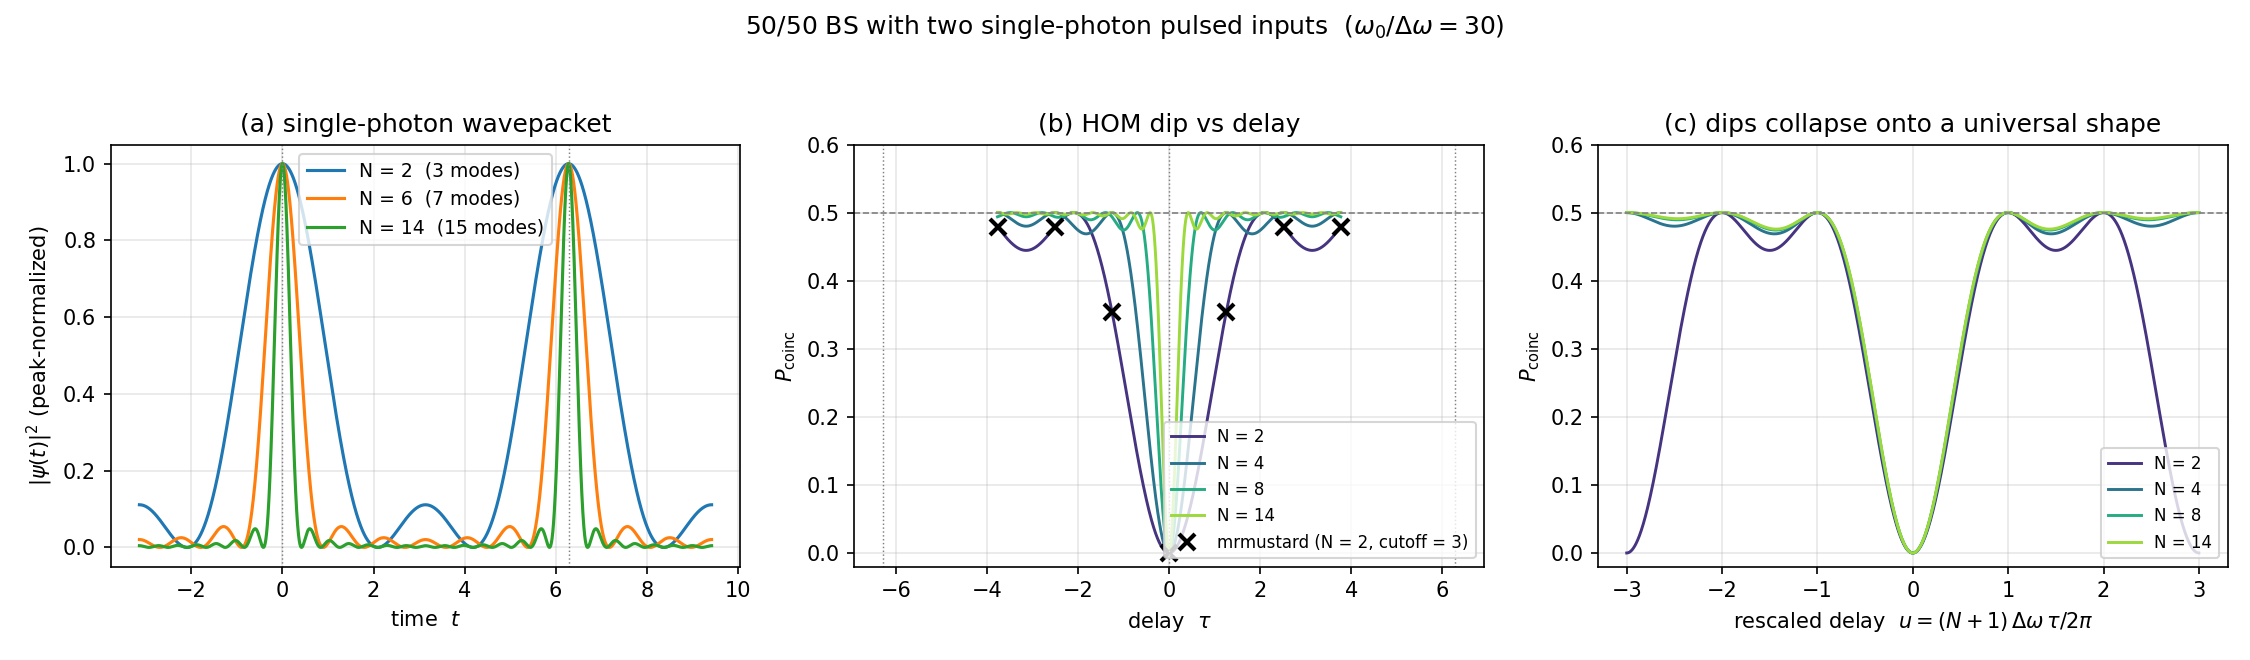
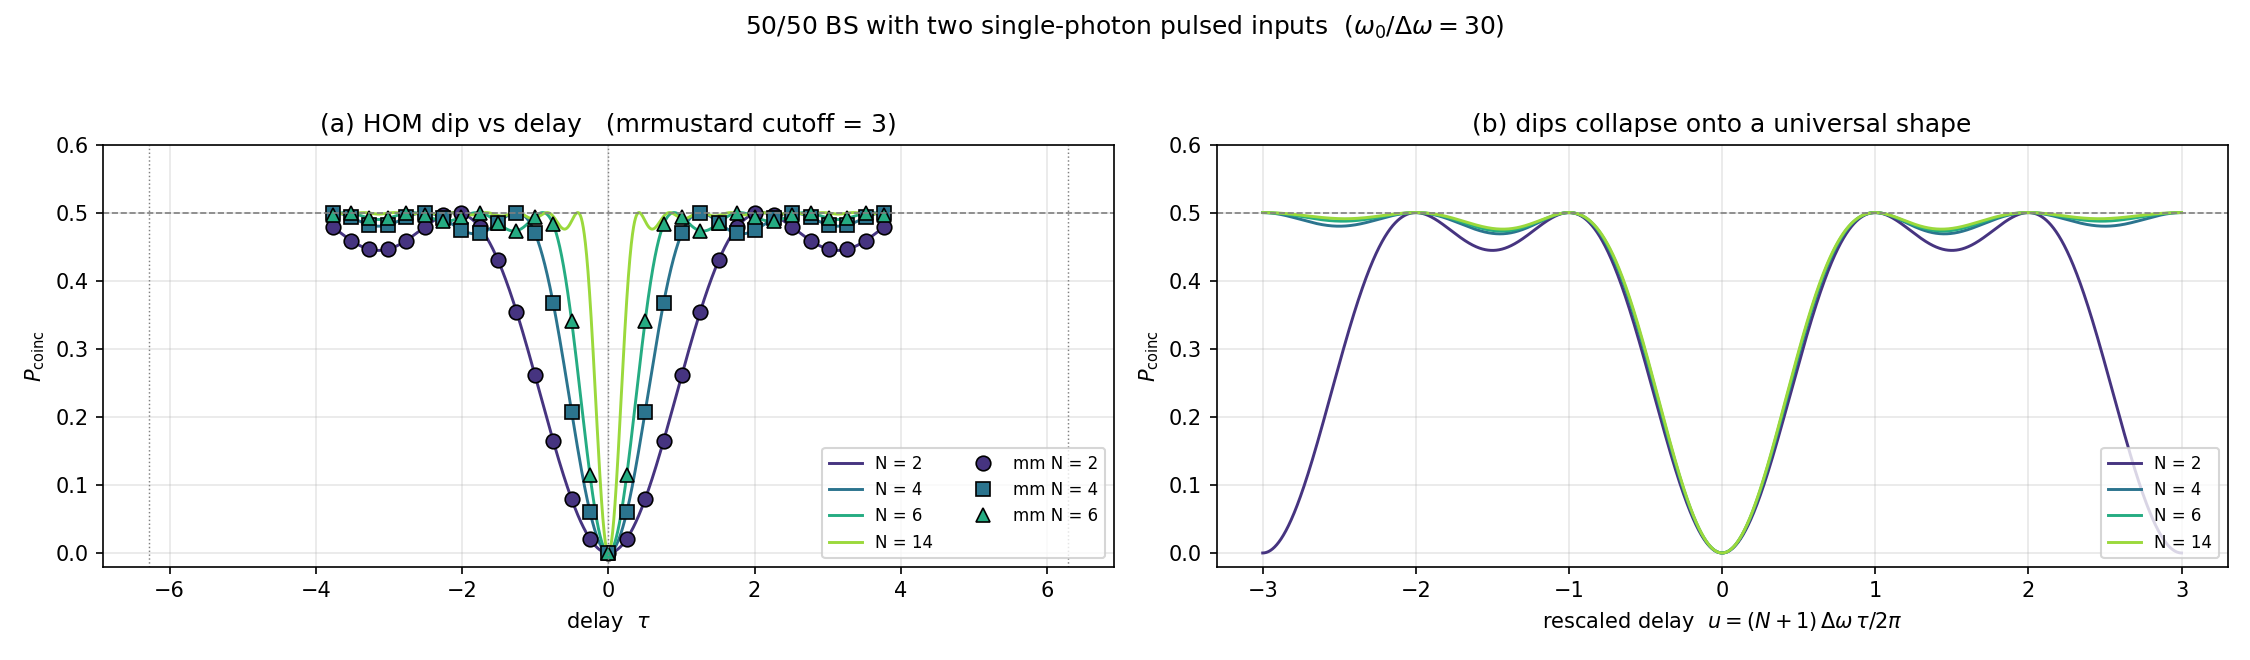
HOM dip simulation finished

diff --git a/coincidence_number_states.py b/coincidence_number_states.py
@@ -130,56 +130,54 @@ for tau in [0.0, T_CAR / 2, T_CAR, T_REP / 16, T_REP / 8, T_REP / 4, T_REP / 2, 
     print(f"{tau:+12.4f} {P:10.4f}")
 print()
 
-# --- mrmustard cross-check -------------------------------------------
-mm_N, mm_cutoff = 2, 3
-mm_taus = np.linspace(-0.6 * T_REP, 0.6 * T_REP, 7)
-print(f"== mrmustard cross-check (N = {mm_N} → {mm_N+1} modes/beam, Fock cutoff = {mm_cutoff}) ==")
-print(f"{'τ':>12} {'analytic':>12} {'mrmustard':>12} {'Δ':>12}")
-mm_P = np.empty_like(mm_taus)
-for i, tau in enumerate(mm_taus):
-    P_mm = coincidence_mrmustard(tau, mm_N, cutoff=mm_cutoff)
-    P_an = coincidence_analytic(tau, mm_N)
-    mm_P[i] = P_mm
-    print(f"{tau:+12.4f} {P_an:12.6f} {P_mm:12.6f} {P_mm-P_an:+12.2e}")
-print()
+# --- mrmustard cross-check at several N ------------------------------
+mm_cutoff = 3
+mm_N_values = [2, 4, 6]
+mm_taus = np.linspace(-0.6 * T_REP, 0.6 * T_REP, 31)
+mm_results = {}
+
+for mm_N in mm_N_values:
+    print(f"== mrmustard cross-check (N = {mm_N} → {mm_N+1} modes/beam, Fock cutoff = {mm_cutoff}) ==")
+    print(f"{'τ':>12} {'analytic':>12} {'mrmustard':>12} {'Δ':>12}")
+    P_arr = np.empty_like(mm_taus)
+    for i, tau in enumerate(mm_taus):
+        P_mm = coincidence_mrmustard(tau, mm_N, cutoff=mm_cutoff)
+        P_an = coincidence_analytic(tau, mm_N)
+        P_arr[i] = P_mm
+        print(f"{tau:+12.4f} {P_an:12.6f} {P_mm:12.6f} {P_mm-P_an:+12.2e}")
+    mm_results[mm_N] = P_arr
+    print()
 
 # --- plots ------------------------------------------------------------
-fig, axes = plt.subplots(1, 3, figsize=(15, 4.4))
+fig, axes = plt.subplots(1, 2, figsize=(15, 4.4))
 
-# (a) single-photon wavepacket profile (envelope = same Dirichlet kernel)
+
+# (b) HOM dip vs delay for several N, plus mrmustard markers (color-matched)
 ax = axes[0]
-t_grid = np.linspace(-0.5 * T_REP, 1.5 * T_REP, 4000)
-for N in [2, 6, 14]:
-    ax.plot(t_grid, pulse_envelope(t_grid, N), label=f"N = {N}  ({N+1} modes)")
-for k in range(2):
-    ax.axvline(k * T_REP, color="gray", linestyle=":", linewidth=0.7)
-ax.set_xlabel(r"time  $t$")
-ax.set_ylabel(r"$|\psi(t)|^2$ (peak-normalized)")
-ax.set_title("(a) single-photon wavepacket")
-ax.legend(fontsize=9)
-ax.grid(alpha=0.3)
-
-# (b) HOM dip vs delay for several N, plus mrmustard markers
-ax = axes[1]
 tau_grid = np.linspace(-0.6 * T_REP, 0.6 * T_REP, 4001)
-N_curves = [2, 4, 8, 14]
-for N, c in zip(N_curves, plt.cm.viridis(np.linspace(0.15, 0.85, len(N_curves)))):
+N_curves = [2, 4, 6, 14]
+N_to_color = dict(zip(N_curves, plt.cm.viridis(np.linspace(0.15, 0.85, len(N_curves)))))
+for N in N_curves:
     ax.plot(tau_grid, [coincidence_analytic(t, N) for t in tau_grid],
-            color=c, lw=1.4, label=f"N = {N}")
-ax.plot(mm_taus, mm_P, "kx", markersize=8, mew=2,
-        label=f"mrmustard (N = {mm_N}, cutoff = {mm_cutoff})")
+            color=N_to_color[N], lw=1.4, label=f"N = {N}")
+mm_markers = {2: "o", 4: "s", 6: "^"}
+for mm_N in mm_N_values:
+    ax.plot(mm_taus, mm_results[mm_N], mm_markers[mm_N],
+            color=N_to_color[mm_N], markersize=7,
+            markeredgecolor="black", markeredgewidth=0.8,
+            linestyle="none", label=f"mm N = {mm_N}")
 ax.axhline(0.5, color="gray", linestyle="--", linewidth=0.8)
 for k in [-1, 0, 1]:
     ax.axvline(k * T_REP, color="gray", linestyle=":", linewidth=0.7)
 ax.set_xlabel(r"delay  $\tau$")
 ax.set_ylabel(r"$P_\mathrm{coinc}$")
-ax.set_title("(b) HOM dip vs delay")
+ax.set_title(f"(a) HOM dip vs delay   (mrmustard cutoff = {mm_cutoff})")
 ax.set_ylim(-0.02, 0.6)
-ax.legend(fontsize=8, loc="lower right")
+ax.legend(fontsize=8, loc="lower right", ncol=2)
 ax.grid(alpha=0.3)
 
 # (c) rescaled overlay: dips collapse when we scale τ by (N+1)
-ax = axes[2]
+ax = axes[1]
 u_grid = np.linspace(-3.0, 3.0, 4001)
 for N, c in zip(N_curves, plt.cm.viridis(np.linspace(0.15, 0.85, len(N_curves)))):
     # rescale: u = (N+1) Δω τ / (2π)  →  τ = 2π u / ((N+1) Δω)
@@ -189,7 +187,7 @@ for N, c in zip(N_curves, plt.cm.viridis(np.linspace(0.15, 0.85, len(N_curves)))
 ax.axhline(0.5, color="gray", linestyle="--", linewidth=0.8)
 ax.set_xlabel(r"rescaled delay  $u = (N+1)\,\Delta\omega\,\tau / 2\pi$")
 ax.set_ylabel(r"$P_\mathrm{coinc}$")
-ax.set_title(r"(c) dips collapse onto a universal shape")
+ax.set_title(r"(b) dips collapse onto a universal shape")
 ax.set_ylim(-0.02, 0.6)
 ax.legend(fontsize=8, loc="lower right")
 ax.grid(alpha=0.3)
